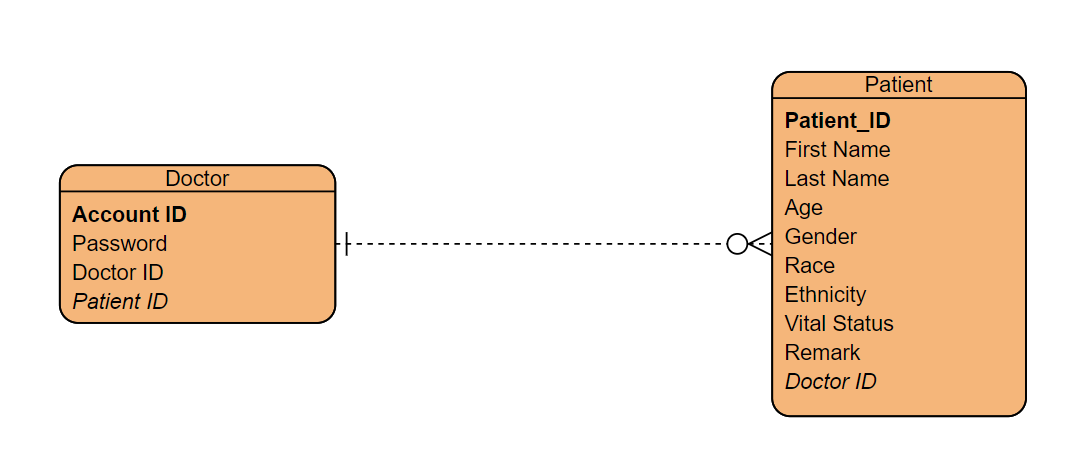
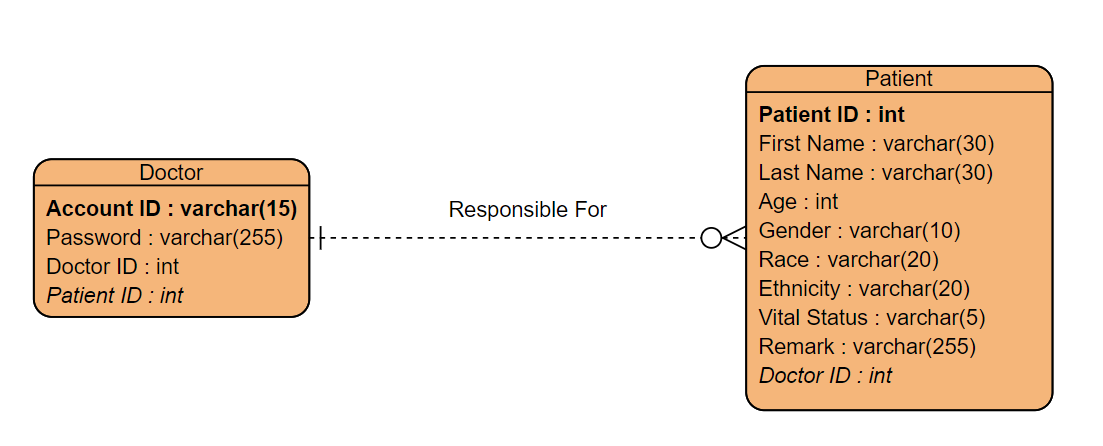
1

diff --git a/cloud/uploads/models.py b/cloud/uploads/models.py
@@ -5,13 +5,17 @@ import uuid
 
 class Patient(models.Model):
     pID         = models.AutoField(primary_key = True)
-    pFName      = models.CharField(max_length = 20)
-    pLName      = models.CharField(max_length = 20)
+    pFName      = models.CharField(max_length = 30)
+    pLName      = models.CharField(max_length = 30)
     pGender     = models.CharField(max_length = 10)
     pRace       = models.CharField(max_length = 20)
     pEthnicity  = models.CharField(max_length = 20)
+    pStatus     = models.CharField(max_length = 5)
+    pRemark     = models.CharField(max_length = 255)
     pAge        = models.IntegerField()
+    dID         = models.ForeignKey('Doctor', on_delete = models.CASCADE)
 
     def __str__(self):
         return self.pID
 
+class Doctor
